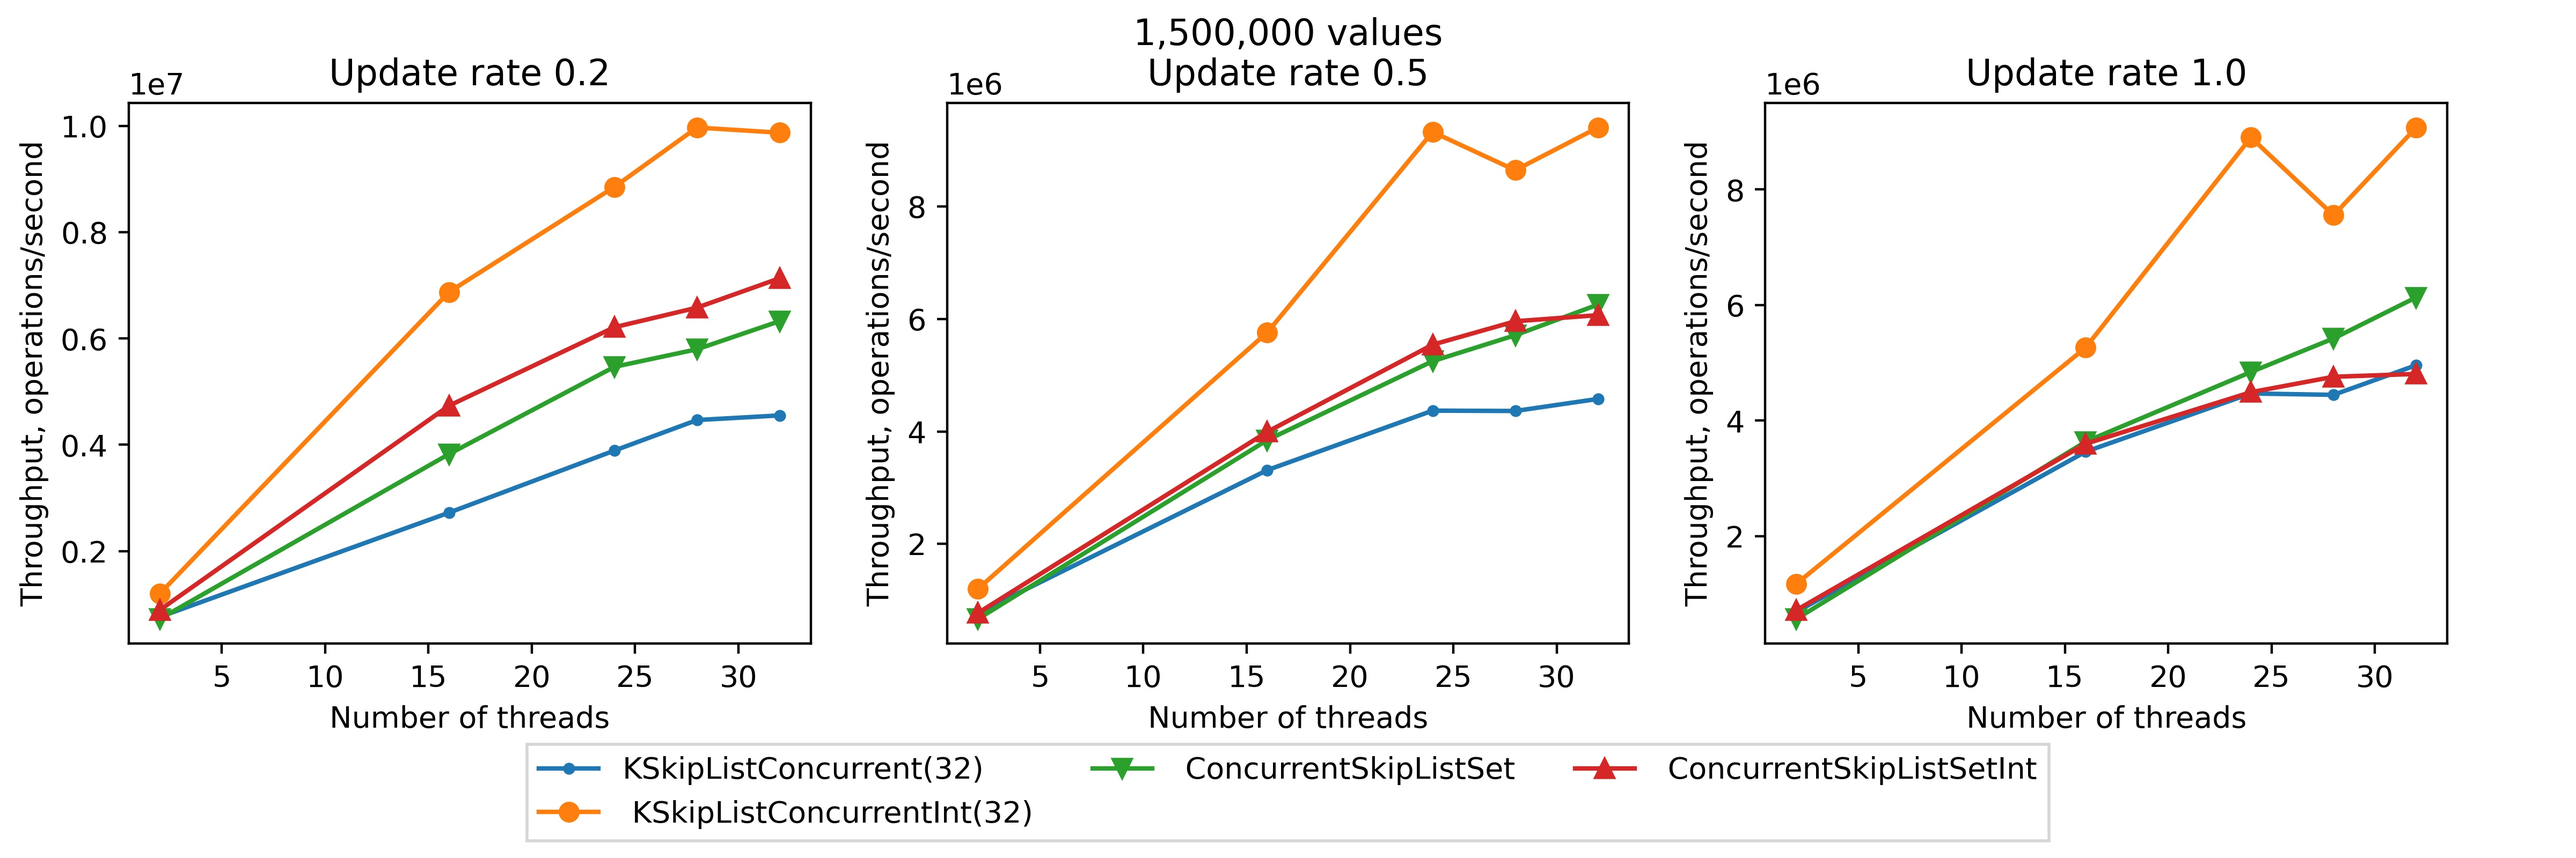
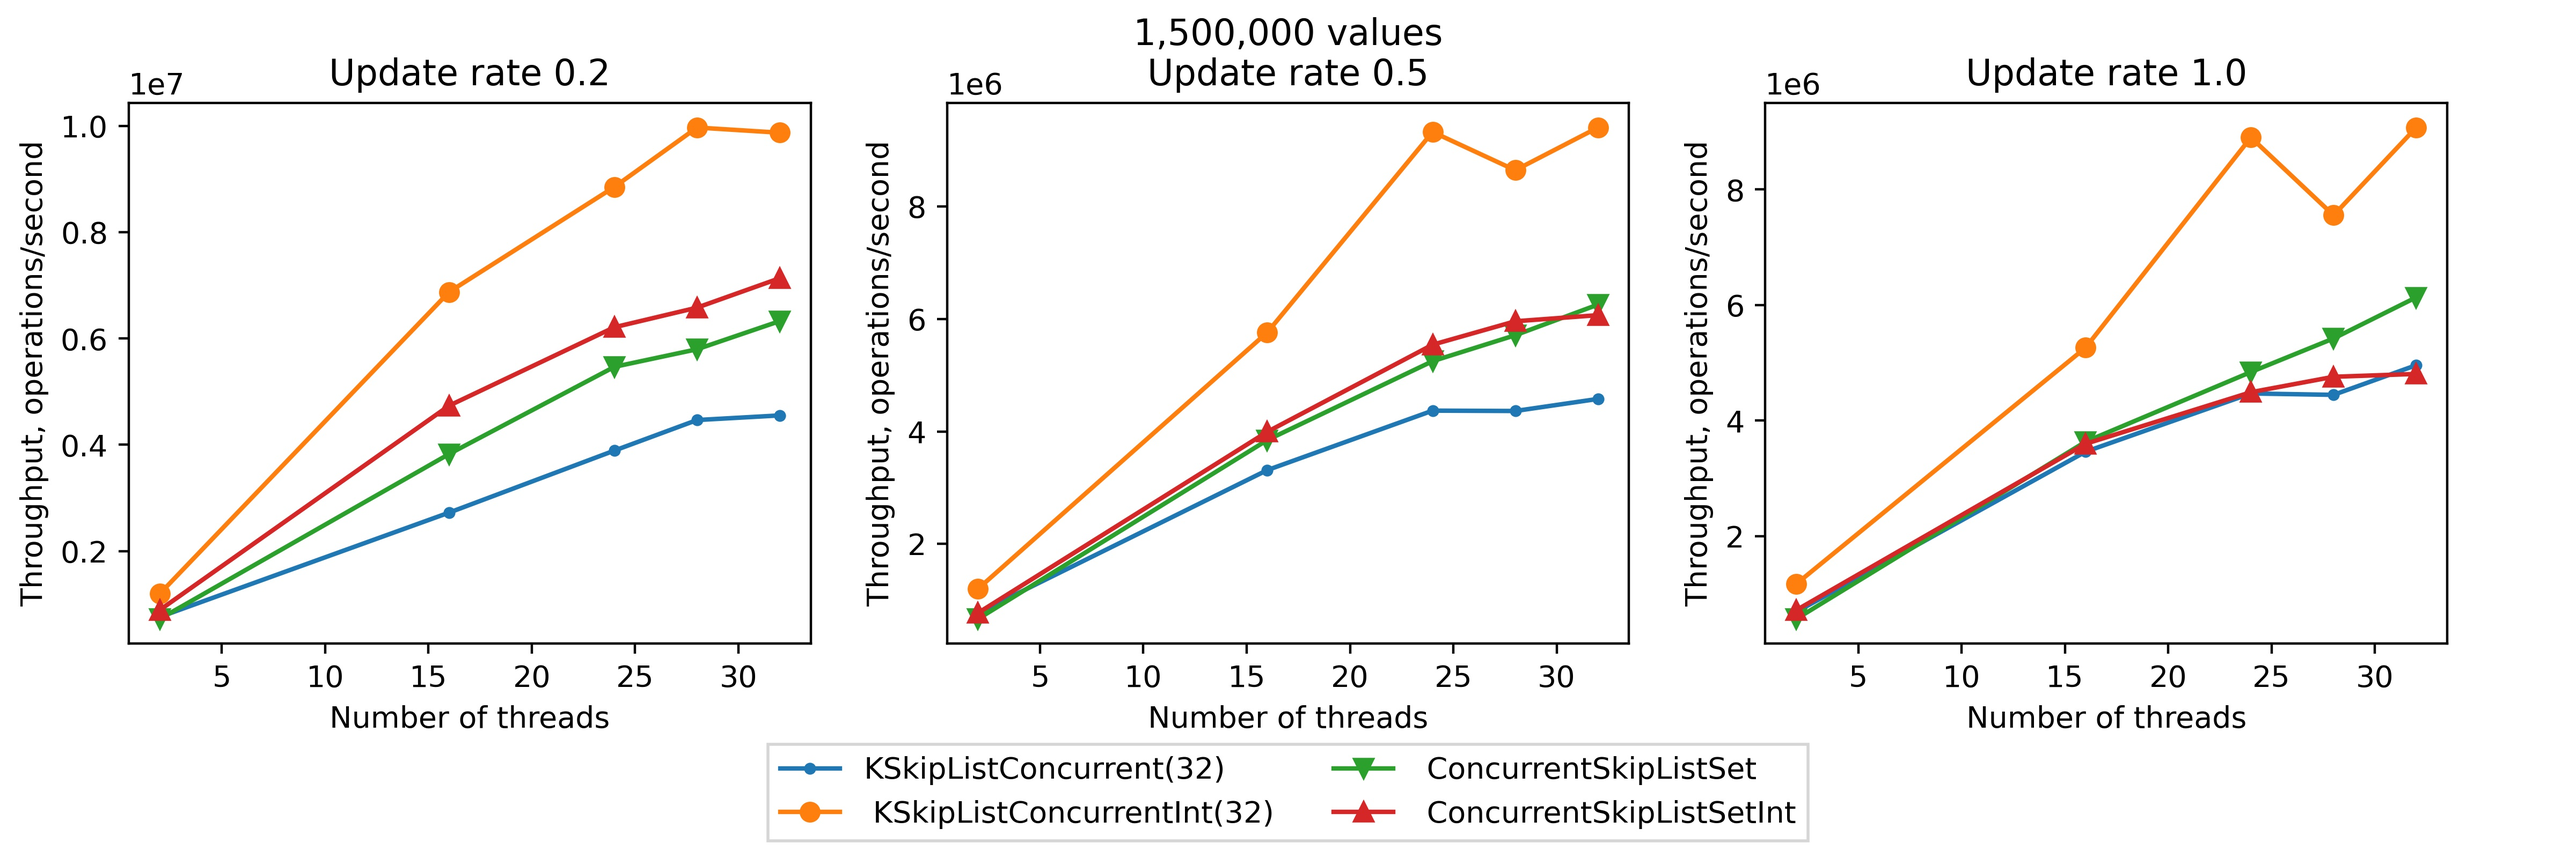
plots for thesis

Changed region(s): [[0.1875, 0.8438, 0.8125, 0.9062], [0.1875, 0.9375, 0.7188, 1.0], [0.7188, 0.9688, 0.7812, 1.0]]

diff --git a/plot_csv/plot_generator.py b/plot_csv/plot_generator.py
@@ -6,7 +6,8 @@ from pandas import read_csv
 x = []
 y = []
 
-slurm = "slurm-2639390"
+# slurm = "slurm-2639390"
+slurm = "slurm-2609367"
 files = [f for f in listdir(".") if f.endswith("csv") and f.startswith(slurm)]
 files = sorted(files, key=lambda x: int(x.split("_")[1]))
 
@@ -53,7 +54,7 @@ for files_block in res:
     # plt.ylabel('y')
     handles, labels = axs.get_legend_handles_labels()
     fig.legend(handles, labels, loc='upper center',
-               bbox_to_anchor=(0.5,0.15), fancybox=False, shadow=False, ncol=3)
+               bbox_to_anchor=(0.5,0.15), fancybox=False, shadow=False, ncol=2)
     # fig.legend(handles, labels, loc='best', prop={'size': 12})
     values_range = f.split('_')[1]
     fig.suptitle('{0:,}'.format(int(values_range)) + " values")
